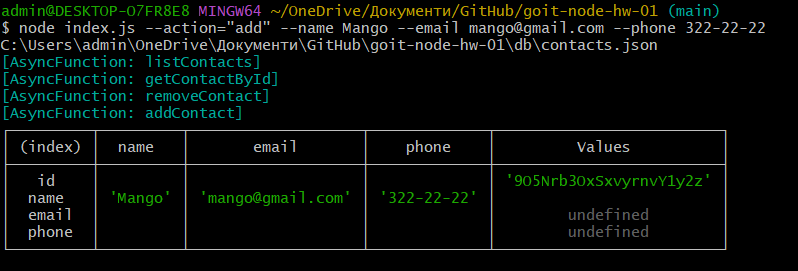
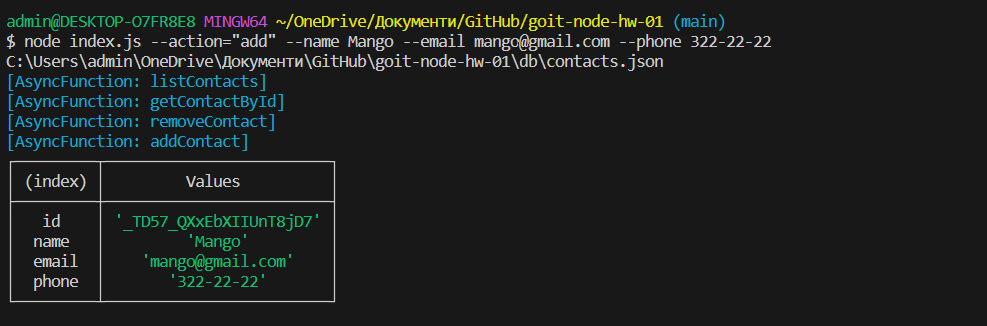
fix add function

diff --git a/contacts.js b/contacts.js
@@ -37,13 +37,11 @@ async function removeContact(contactId) {
 }
 console.log(removeContact);
 
-async function addContact(name, email, phone) {
+async function addContact(data) {
   const contacts = await listContacts();
   const addContact = {
     id: nanoid(),
-    name,
-    email,
-    phone,
+    ...data,
   };
   contacts.push(addContact);
   await fs.writeFile(contactsPath, JSON.stringify(contacts, null, 2));
